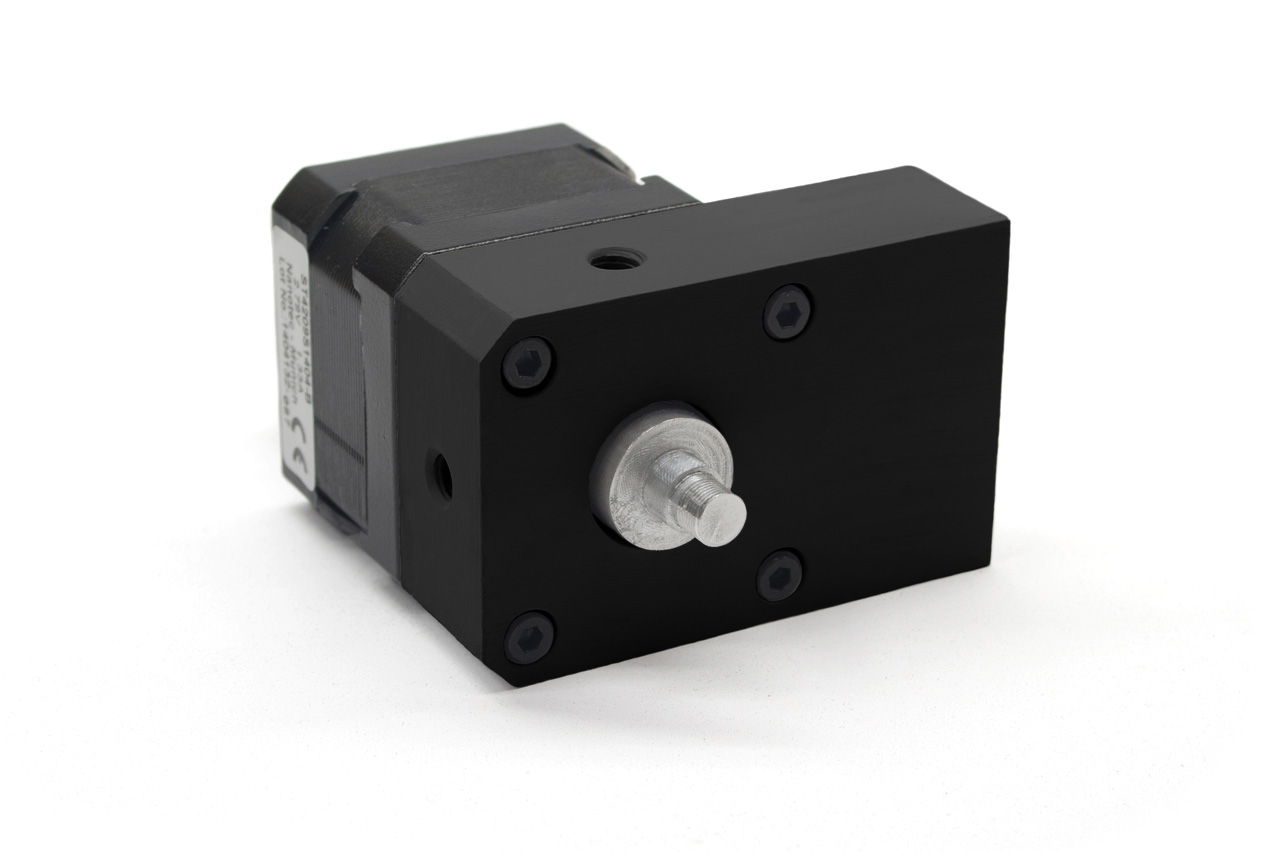
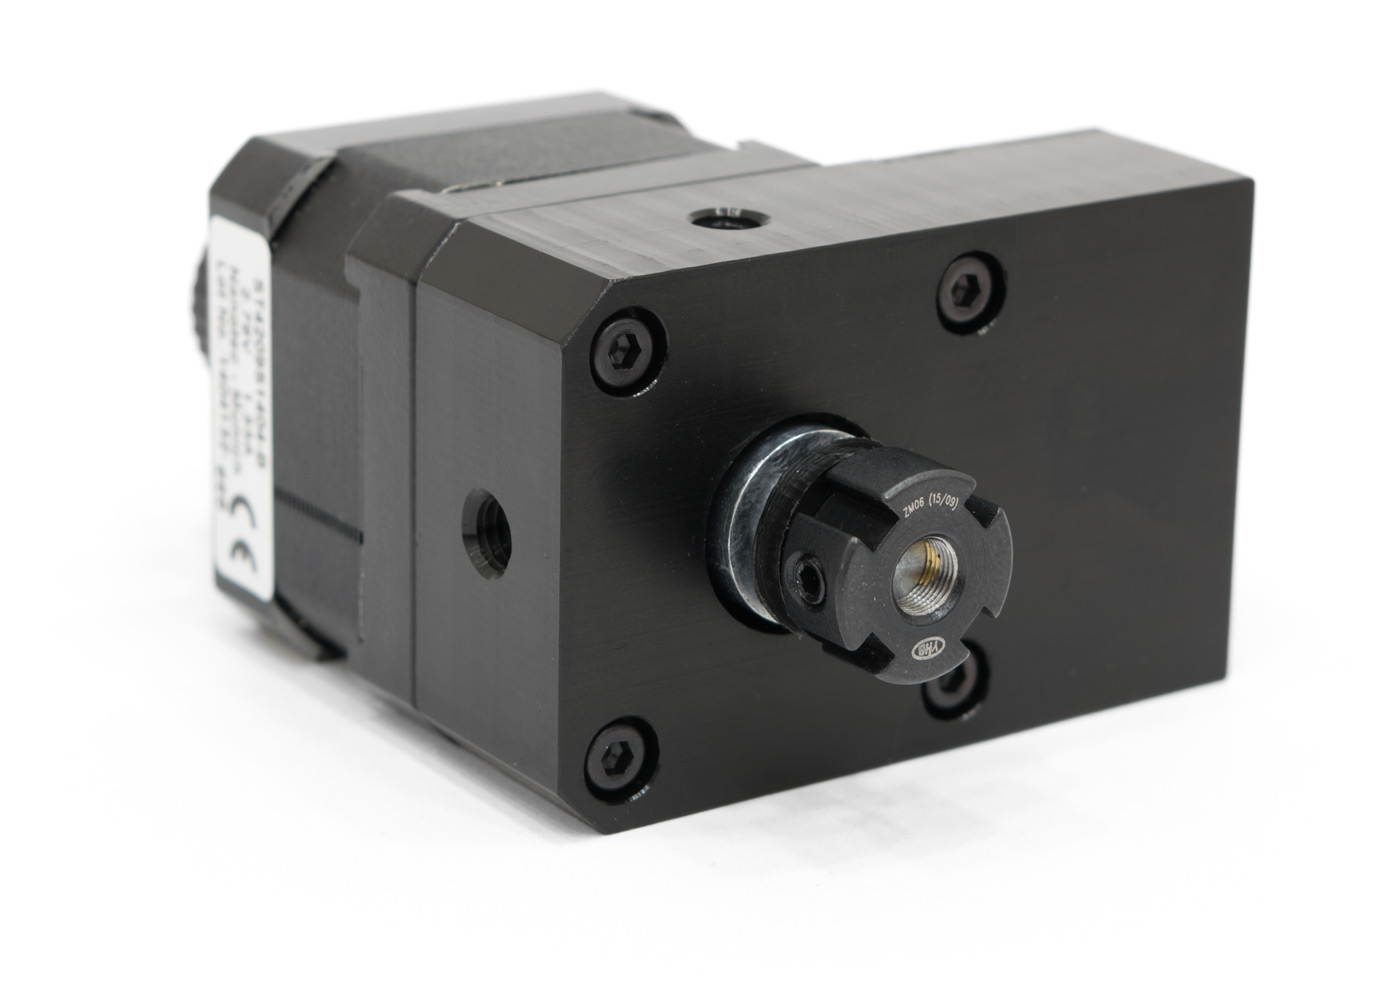
update images and accessories

diff --git a/smc.html b/smc.html
@@ -57,7 +57,7 @@
 											<ul class="links">
 												<li><i class="fa fa-angle-right"></i>&nbsp;<a href="m101.html">Rotation Stage M101</a></li>
 												<li><i class="fa fa-angle-right"></i>&nbsp;<a href="m102.html">Rotation Stage M102</a></li>
-												<li><i class="fa fa-angle-right"></i>&nbsp;<a href="#">Accessories</a></li>
+												<li><i class="fa fa-angle-right"></i>&nbsp;<a href="asc.html">Accessories</a></li>
 											</ul>
 										</section>
 
@@ -74,7 +74,7 @@
 												<p>... and you have the hang of it.</p>
 											</header>
 
-											<span class="image featured"><img src="images/SMC_1280x720.jpg"></span>
+											<span class="image featured"><img src="images/SMC_1400.jpg"></span>
 
 											<p>Take the advantages of the innovative design of the LK-Instruments
 											   Stepper Motor Controller series and explore the simultaneous remote
@@ -92,28 +92,28 @@
 											   
 											<h3>Features</h3>
 											<p>
-                        <i class="fa fa-circle-o"></i>&nbsp;Suitable for LK-Instruments and 3rd party motors/stages<br>
-                        <i class="fa fa-circle-o"></i>&nbsp;Easy and intuitive manual user interface<br>
-						<i class="fa fa-circle-o"></i>&nbsp;well readable OLED display<br>
-                        <i class="fa fa-circle-o"></i>&nbsp;Fully-featured remote interface<br>
-                        <i class="fa fa-circle-o"></i>&nbsp;Automatic motor detection<br>
-                        <i class="fa fa-circle-o"></i>&nbsp;Automatic position calibration<br>
-                        <i class="fa fa-circle-o"></i>&nbsp;Free software interfaces for common programming languages<br>
+                        <i class="fa fa-lk fa-circle"></i>&nbsp;&nbsp;Suitable for LK-Instruments and 3rd party motors/stages<br>
+                        <i class="fa fa-lk fa-circle"></i>&nbsp;&nbsp;Easy and intuitive manual user interface<br>
+						<i class="fa fa-lk fa-circle"></i>&nbsp;&nbsp;well readable OLED display<br>
+                        <i class="fa fa-lk fa-circle"></i>&nbsp;&nbsp;Fully-featured remote interface<br>
+                        <i class="fa fa-lk fa-circle"></i>&nbsp;&nbsp;Automatic motor detection<br>
+                        <i class="fa fa-lk fa-circle"></i>&nbsp;&nbsp;Automatic position calibration<br>
+                        <i class="fa fa-lk fa-circle"></i>&nbsp;&nbsp;Free software interfaces for common programming languages<br>
 											</p>
 											
 											<h3>Specifications</h3>
 											<p>
-                        <i class="fa fa-circle-o"></i>&nbsp;Two or four channels for bipolar stepper motors<br>
-                        <i class="fa fa-circle-o"></i>&nbsp;Up to 2.5 A of output current<br>
-                        <i class="fa fa-circle-o"></i>&nbsp;24 V operating voltage<br>
-                        <i class="fa fa-circle-o"></i>&nbsp;Up to 1/32 microstepping<br>
-                        <i class="fa fa-circle-o"></i>&nbsp;Three inputs for limit/home switches<br>
+                        <i class="fa fa-lk fa-circle"></i>&nbsp;&nbsp;Two or four channels for bipolar stepper motors<br>
+                        <i class="fa fa-lk fa-circle"></i>&nbsp;&nbsp;Up to 2.5 A of output current<br>
+                        <i class="fa fa-lk fa-circle"></i>&nbsp;&nbsp;24 V operating voltage<br>
+                        <i class="fa fa-lk fa-circle"></i>&nbsp;&nbsp;Up to 1/32 microstepping<br>
+                        <i class="fa fa-lk fa-circle"></i>&nbsp;&nbsp;Three inputs for limit/home switches<br>
 											</p>
 											
 											<h3>Applications</h3>
 											<p>
-                        <i class="fa fa-circle-o"></i>&nbsp;Polarization adjustment<br>
-                        <i class="fa fa-circle-o"></i>&nbsp;Mirror adjustment<br>
+                        <i class="fa fa-lk fa-circle"></i>&nbsp;&nbsp;Polarization adjustment<br>
+                        <i class="fa fa-lk fa-circle"></i>&nbsp;&nbsp;Mirror adjustment<br>
 											</p>
 											
 										</article>

diff --git a/m101.html b/m101.html
@@ -49,7 +49,7 @@
 											<ul class="links">
                         <li><i class="fa fa-angle-right"></i>&nbsp;<a href="smc.html">Stepper Motor Controller</a></li>
 												<li><i class="fa fa-angle-right"></i>&nbsp;<a href="m102.html">Rotation Stage M102</a></li>
-												<li><i class="fa fa-angle-right"></i>&nbsp;<a href="#">Accessories</a></li>
+												<li><i class="fa fa-angle-right"></i>&nbsp;<a href="asc.html">Accessories</a></li>
 											</ul>
 										</section>
 
@@ -75,26 +75,26 @@
 
 											<h3>Features</h3>
 											<p>
-                        <i class="fa fa-circle-o"></i>&nbsp;Hall-sensor controlled automatic zero-positioning<br>
-                        <i class="fa fa-circle-o"></i>&nbsp;Standard SM1-compatible mount for optical elements<br>
-                        <i class="fa fa-circle-o"></i>&nbsp;Angular resolution 0.3&deg; (without microstepping)<br>
-                        <i class="fa fa-circle-o"></i>&nbsp;Extremely low backlash<br>
+                        <i class="fa fa-lk fa-circle"></i>&nbsp;&nbsp;Hall-sensor controlled automatic zero-positioning<br>
+                        <i class="fa fa-lk fa-circle"></i>&nbsp;&nbsp;Standard SM1-compatible mount for optical elements<br>
+                        <i class="fa fa-lk fa-circle"></i>&nbsp;&nbsp;Angular resolution 0.3&deg; (without microstepping)<br>
+                        <i class="fa fa-lk fa-circle"></i>&nbsp;&nbsp;Extremely low backlash<br>
 											</p>
 											
 											<h3>Specifications</h3>
 											<p>
-                        <i class="fa fa-circle-o"></i>&nbsp;1200 full steps per full rotation<br>
-                        <i class="fa fa-circle-o"></i>&nbsp;1.33 A motor current<br>
-                        <i class="fa fa-circle-o"></i>&nbsp;0.1&deg; backlash<br>
-                        <i class="fa fa-circle-o"></i>&nbsp;0&deg;C to 40&deg;C temperature range<br>
+                        <i class="fa fa-lk fa-circle"></i>&nbsp;&nbsp;1200 full steps per full rotation<br>
+                        <i class="fa fa-lk fa-circle"></i>&nbsp;&nbsp;1.33 A motor current<br>
+                        <i class="fa fa-lk fa-circle"></i>&nbsp;&nbsp;0.1&deg; backlash<br>
+                        <i class="fa fa-lk fa-circle"></i>&nbsp;&nbsp;0&deg;C to 40&deg;C temperature range<br>
 											</p>
 											
 											<h3>Applications</h3>
 											<p>
-                        <i class="fa fa-circle-o"></i>&nbsp;Polarization adjustment<br>
-                        <i class="fa fa-circle-o"></i>&nbsp;Mirror positioning<br>
-                        <i class="fa fa-circle-o"></i>&nbsp;Grating positioning<br>
-                        <i class="fa fa-circle-o"></i>&nbsp;Neutral density filter positioning<br>
+                        <i class="fa fa-lk fa-circle"></i>&nbsp;&nbsp;Polarization adjustment<br>
+                        <i class="fa fa-lk fa-circle"></i>&nbsp;&nbsp;Mirror positioning<br>
+                        <i class="fa fa-lk fa-circle"></i>&nbsp;&nbsp;Grating positioning<br>
+                        <i class="fa fa-lk fa-circle"></i>&nbsp;&nbsp;Neutral density filter positioning<br>
 											</p>
 											
 										</article>

diff --git a/asc.html b/asc.html
@@ -28,17 +28,13 @@
 											<h3>Key Features</h3>
 											<ul class="links">
 												<p>
-                          <i class="fa fa-check"></i>&nbsp;Compact outer dimensions<br>
+						              <i class="fa fa-check"></i>&nbsp;Compact outer dimensions<br>
                           <i class="fa fa-check"></i>&nbsp;Mountable in any orientation<br>
 											</p>
 											</ul>
-										</section>
-
-										<section>
-											<h3>Resources</h3>
-											<ul class="links">
-												<li><i class="fa fa-angle-right"></i>&nbsp;<a href="#">Datasheet</a></li>
-											</ul>
+											<footer>
+												<a href="m102_reqqu.html" class="button">Get Quote</a>
+											</footer>
 										</section>
 										
 										<section>
@@ -46,7 +42,7 @@
 											<ul class="links">
                         <li><i class="fa fa-angle-right"></i>&nbsp;<a href="smc.html">Stepper Motor Controller</a></li>
 												<li><i class="fa fa-angle-right"></i>&nbsp;<a href="m101.html">Rotation Stage M101</a></li>
-												<li><i class="fa fa-angle-right"></i>&nbsp;<a href="asc.html">Accessories</a></li>
+												<li><i class="fa fa-angle-right"></i>&nbsp;<a href="m102.html">Rotation Stage M102</a></li>
 											</ul>
 										</section>
 
@@ -59,21 +55,18 @@
 
 										<article>
 											<header>
-												<h2>M102</h2>
-												<p>... the smaller one.</p>
+												<h2>Accessories</h2>
+												<p>... get more from your stages.</p>
 											</header>
 
-                      <form action="/system-cgi/formmail.pl" method="POST" accept-charset="ISO-8859-1">
-                        <input type=hidden name="recipient" value="info@lk-instruments.com">
-                        <input type=hidden name="env_report" value="REMOTE_HOST,HTTP_USER_AGENT,REMOTE_ADDR">
-                        <input type="hidden" name="redirect" value="http://www.lk-instruments.com/m102_sendsu.html">
-                        <input type="hidden" name="print_config" value="realname,email,subject,message">
-                        <input type=text name="realname" size="20" value="Your name"><br>
-                        <input type=text name="email" size="20" value="Your email"><br>
-                        <input type=text name="subject" size="20" value="Quote request for Rotation Stage M102"><br>
-                        <textarea rows="2" name="message" cols="20"></textarea><br>
-                        <input type="submit" value="Submit" name="Submit">
-                      </form>
+											<span class="image featured"><img src="images/asc_1400.jpg" alt="" /></span>
+
+											<p>For the LK-Instruments M102 we offer the possibility to mount up to six optical filters.</p>
+
+											<h3>Features</h3>
+											<p>
+                        <i class="fa fa-lk fa-circle"></i>&nbsp;&nbsp;Standard SM1-compatible mount for optical elements<br>
+											</p>
 											
 										</article>
 

diff --git a/m102.html b/m102.html
@@ -49,7 +49,7 @@
 											<ul class="links">
                         <li><i class="fa fa-angle-right"></i>&nbsp;<a href="smc.html">Stepper Motor Controller</a></li>
 												<li><i class="fa fa-angle-right"></i>&nbsp;<a href="m101.html">Rotation Stage M101</a></li>
-												<li><i class="fa fa-angle-right"></i>&nbsp;<a href="#">Accessories</a></li>
+												<li><i class="fa fa-angle-right"></i>&nbsp;<a href="asc.html">Accessories</a></li>
 											</ul>
 										</section>
 
@@ -72,22 +72,22 @@
 
 											<h3>Features</h3>
 											<p>
-                        <i class="fa fa-circle-o"></i>&nbsp;Hall-sensor controlled automatic zero-positioning<br>
-                        <i class="fa fa-circle-o"></i>&nbsp;Robust design<br>
-                        <i class="fa fa-circle-o"></i>&nbsp;Load on motor axis<br>
+                        <i class="fa fa-lk fa-circle"></i>&nbsp;&nbsp;Hall-sensor controlled automatic zero-positioning<br>
+                        <i class="fa fa-lk fa-circle"></i>&nbsp;&nbsp;Robust design<br>
+                        <i class="fa fa-lk fa-circle"></i>&nbsp;&nbsp;Load on motor axis<br>
 											</p>
 											
 											<h3>Specifications</h3>
 											<p>
-                        <i class="fa fa-circle-o"></i>&nbsp;400 full steps per full rotation<br>
-                        <i class="fa fa-circle-o"></i>&nbsp;1.33 A motor current<br>
-                        <i class="fa fa-circle-o"></i>&nbsp;-10&deg;C to 50&deg;C temperature range<br>
+                        <i class="fa fa-lk fa-circle"></i>&nbsp;&nbsp;400 full steps per full rotation<br>
+                        <i class="fa fa-lk fa-circle"></i>&nbsp;&nbsp;1.33 A motor current<br>
+                        <i class="fa fa-lk fa-circle"></i>&nbsp;&nbsp;-10&deg;C to 50&deg;C temperature range<br>
 											</p>
 											
 											<h3>Applications</h3>
 											<p>
-                        <i class="fa fa-circle-o"></i>&nbsp;Changing optical filters<br>
-                        <i class="fa fa-circle-o"></i>&nbsp;Neutral density filter positioning<br>
+                        <i class="fa fa-lk fa-circle"></i>&nbsp;&nbsp;Changing optical filters<br>
+                        <i class="fa fa-lk fa-circle"></i>&nbsp;&nbsp;Neutral density filter positioning<br>
 											</p>
 											
 										</article>

diff --git a/products.html b/products.html
@@ -61,7 +61,7 @@
 											<div class="row">
                         <section class="6u 12u(narrower)">
                           <div class="box post">
-                            <a href="smc.html" class="image left"><img src="images/SMC_icon2.jpg" alt="" /></a>
+                            <a href="smc.html" class="image left"><img src="images/SMC_icon.jpg" alt="" /></a>
                             <div class="inner">
                               <h3>Stepper Motor Controllers</h3>
                             </div>
@@ -71,7 +71,7 @@
                           <div class="box post">
                             <a href="motors.html" class="image left"><img src="images/M101_icon.jpg" alt="" /></a>
                             <div class="inner">
-                              <h3>Rotation Stages</h3>
+                              <h3>Optomechanics</h3>
                             </div>
                           </div>
                         </section>

diff --git a/motors.html b/motors.html
@@ -69,7 +69,7 @@
                         </section>
                         <section class="6u 12u(narrower)">
                           <div class="box post">
-                            <a href="m102.html" class="image left"><img src="images/pic03.jpg" alt="" /></a>
+                            <a href="asc.html" class="image left"><img src="images/asc_icon.jpg" alt="" /></a>
                             <div class="inner">
                               <h3>Accessories</h3>
                               <p></p>

diff --git a/m101_reqqu.html b/m101_reqqu.html
@@ -47,7 +47,7 @@
 											<ul class="links">
                         <li><i class="fa fa-angle-right"></i>&nbsp;<a href="smc.html">Stepper Motor Controller</a></li>
 												<li><i class="fa fa-angle-right"></i>&nbsp;<a href="m102.html">Rotation Stage M102</a></li>
-												<li><i class="fa fa-angle-right"></i>&nbsp;<a href="#">Accessories</a></li>
+												<li><i class="fa fa-angle-right"></i>&nbsp;<a href="asc.html">Accessories</a></li>
 											</ul>
 										</section>
 

diff --git a/m101_sendsu.html b/m101_sendsu.html
@@ -47,7 +47,7 @@
 											<ul class="links">
                         <li><i class="fa fa-angle-right"></i>&nbsp;<a href="smc.html">Stepper Motor Controller</a></li>
 												<li><i class="fa fa-angle-right"></i>&nbsp;<a href="m102.html">Rotation Stage M102</a></li>
-												<li><i class="fa fa-angle-right"></i>&nbsp;<a href="#">Accessories</a></li>
+												<li><i class="fa fa-angle-right"></i>&nbsp;<a href="asc.html">Accessories</a></li>
 											</ul>
 										</section>
 

diff --git a/m102_sendsu.html b/m102_sendsu.html
@@ -46,7 +46,7 @@
 											<ul class="links">
                         <li><i class="fa fa-angle-right"></i>&nbsp;<a href="smc.html">Stepper Motor Controller</a></li>
 												<li><i class="fa fa-angle-right"></i>&nbsp;<a href="m101.html">Rotation Stage M101</a></li>
-												<li><i class="fa fa-angle-right"></i>&nbsp;<a href="#">Accessories</a></li>
+												<li><i class="fa fa-angle-right"></i>&nbsp;<a href="asc.html">Accessories</a></li>
 											</ul>
 										</section>
 

diff --git a/smc_reqqu.html b/smc_reqqu.html
@@ -54,7 +54,7 @@
 											<ul class="links">
 												<li><i class="fa fa-angle-right"></i>&nbsp;<a href="m101.html">Rotation Stage M101</a></li>
 												<li><i class="fa fa-angle-right"></i>&nbsp;<a href="m102.html">Rotation Stage M102</a></li>
-												<li><i class="fa fa-angle-right"></i>&nbsp;<a href="#">Accessories</a></li>
+												<li><i class="fa fa-angle-right"></i>&nbsp;<a href="asc.html">Accessories</a></li>
 											</ul>
 										</section>
 

diff --git a/smc_sendsu.html b/smc_sendsu.html
@@ -54,7 +54,7 @@
 											<ul class="links">
 												<li><i class="fa fa-angle-right"></i>&nbsp;<a href="m101.html">Rotation Stage M101</a></li>
 												<li><i class="fa fa-angle-right"></i>&nbsp;<a href="m102.html">Rotation Stage M102</a></li>
-												<li><i class="fa fa-angle-right"></i>&nbsp;<a href="#">Accessories</a></li>
+												<li><i class="fa fa-angle-right"></i>&nbsp;<a href="asc.html">Accessories</a></li>
 											</ul>
 										</section>
 

diff --git a/smc_software.html b/smc_software.html
@@ -54,7 +54,7 @@
 											<ul class="links">
 												<li><i class="fa fa-angle-right"></i>&nbsp;<a href="m101.html">Stepper motor M101</a></li>
 												<li><i class="fa fa-angle-right"></i>&nbsp;<a href="m102.html">Stepper motor M102</a></li>
-												<li><i class="fa fa-angle-right"></i>&nbsp;<a href="#">Accessories</a></li>
+												<li><i class="fa fa-angle-right"></i>&nbsp;<a href="asc.html">Accessories</a></li>
 											</ul>
 										</section>
 
